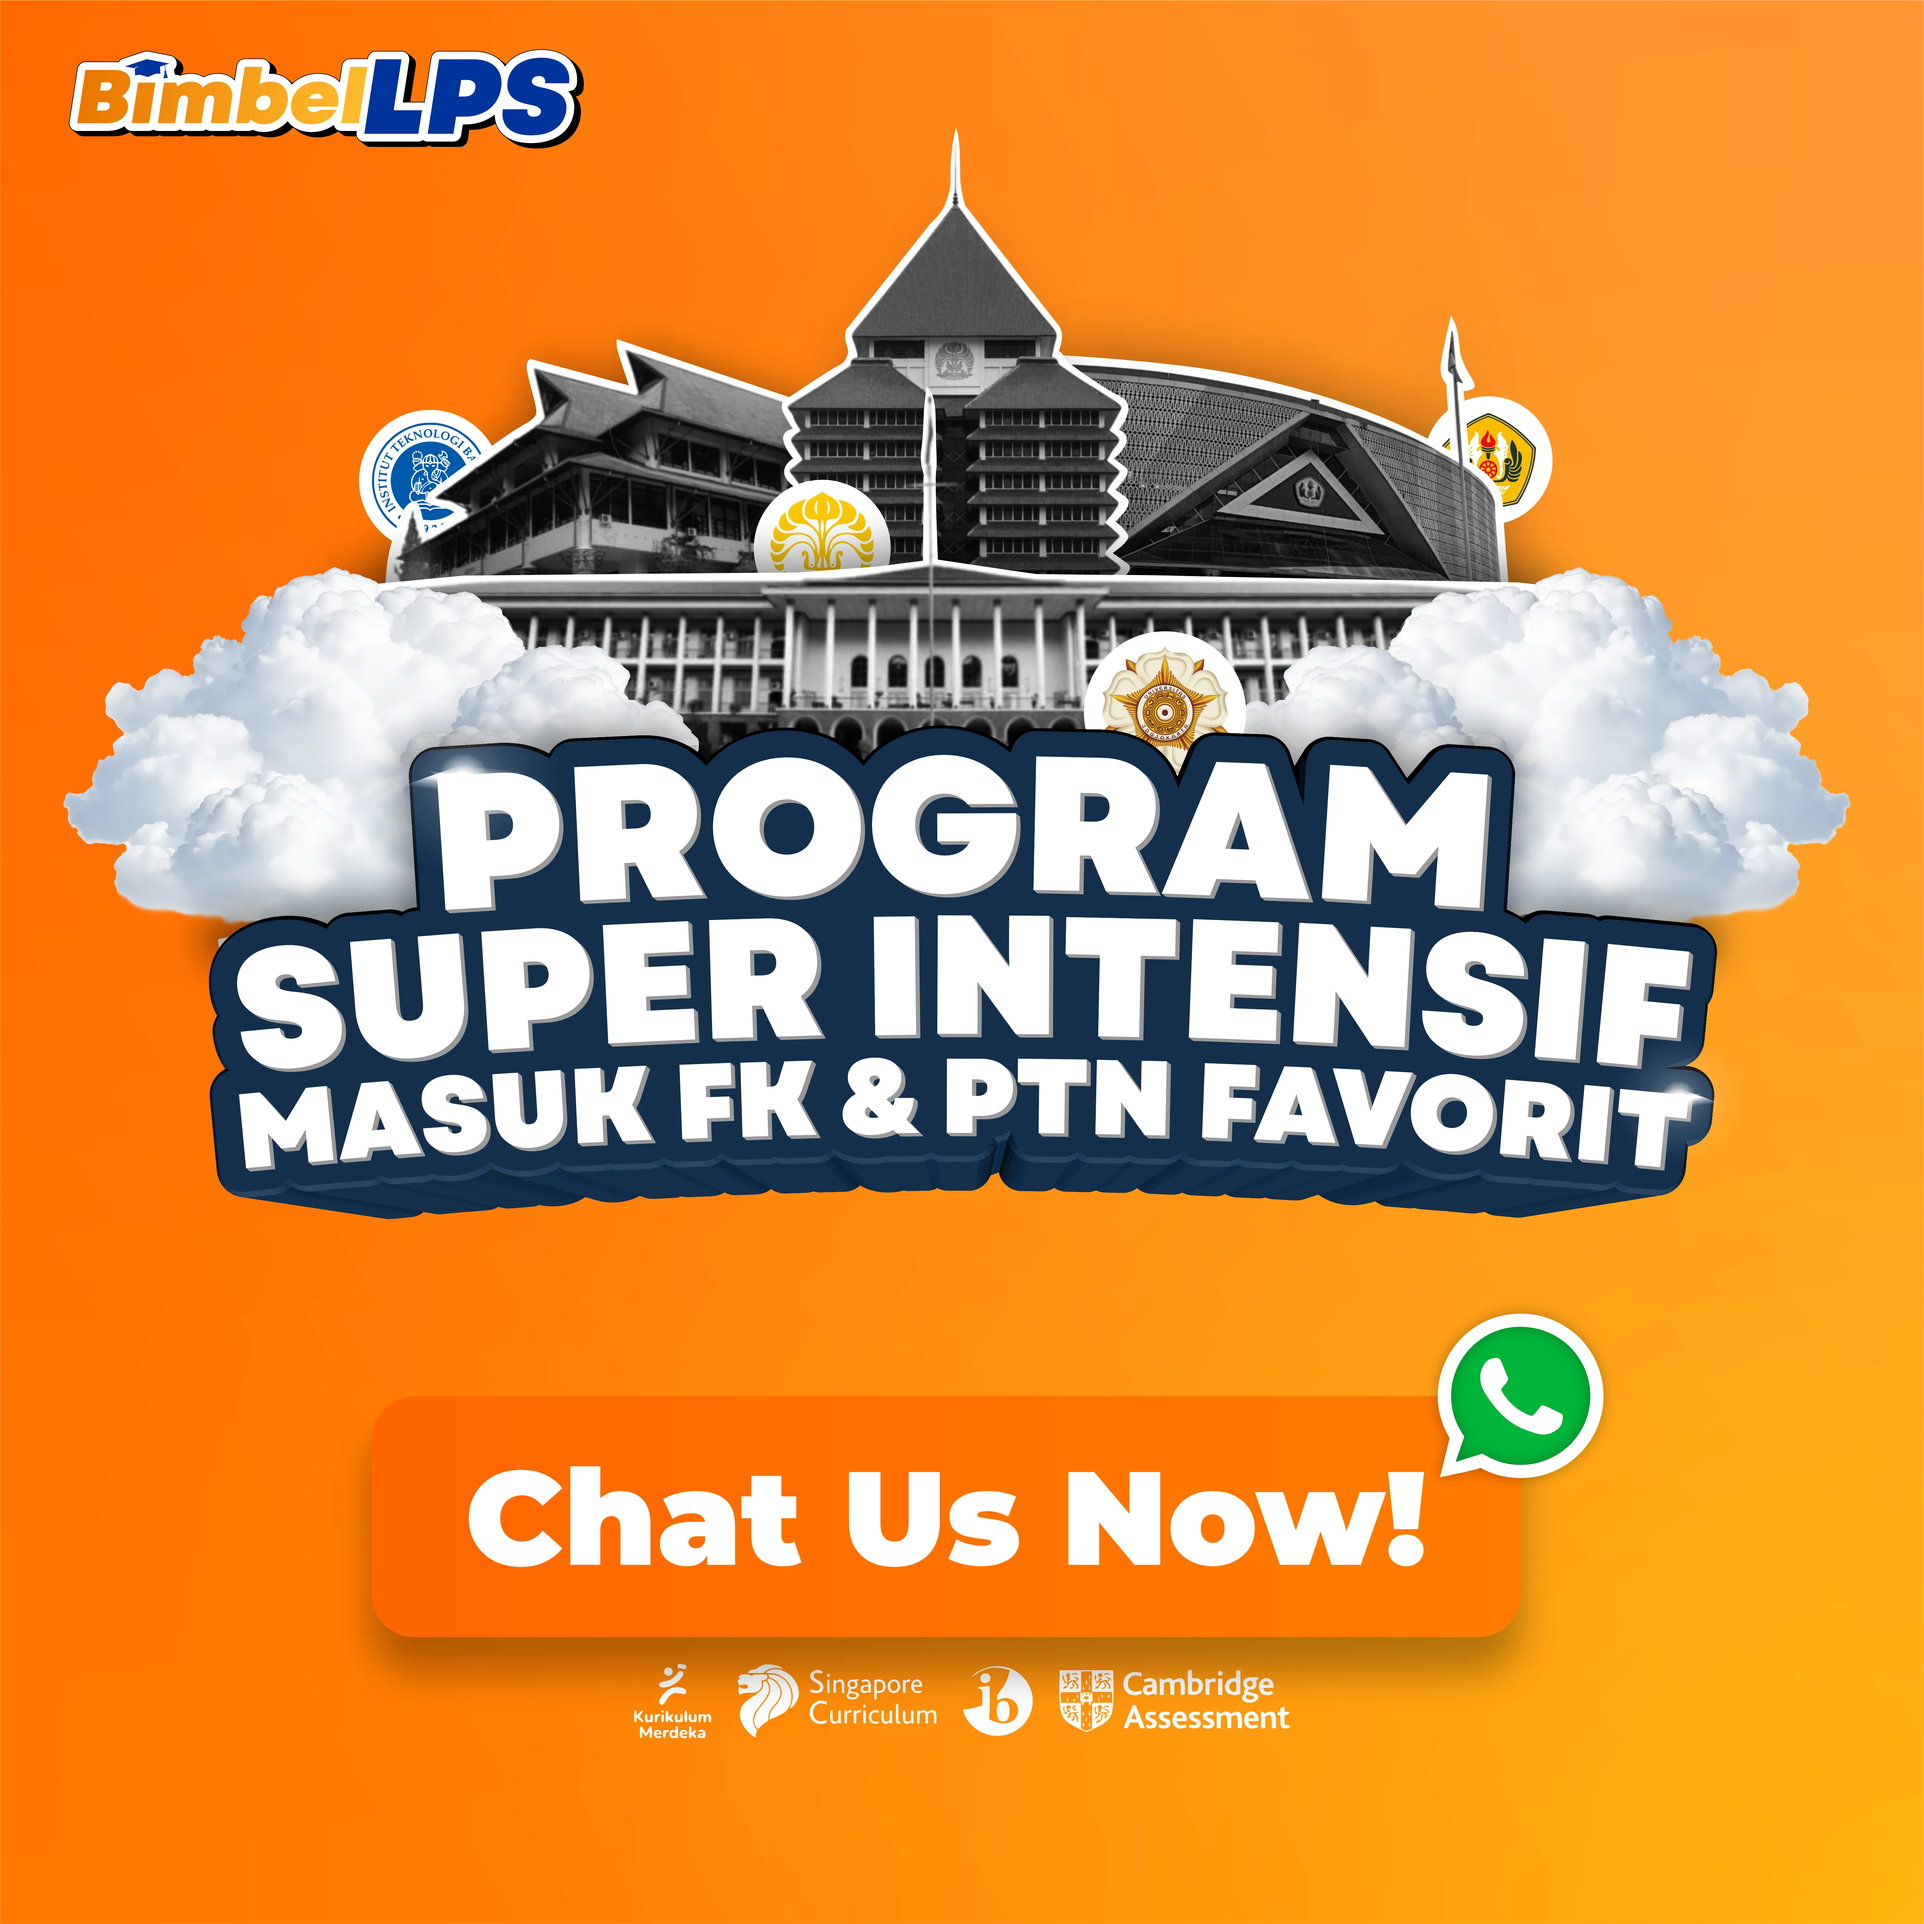
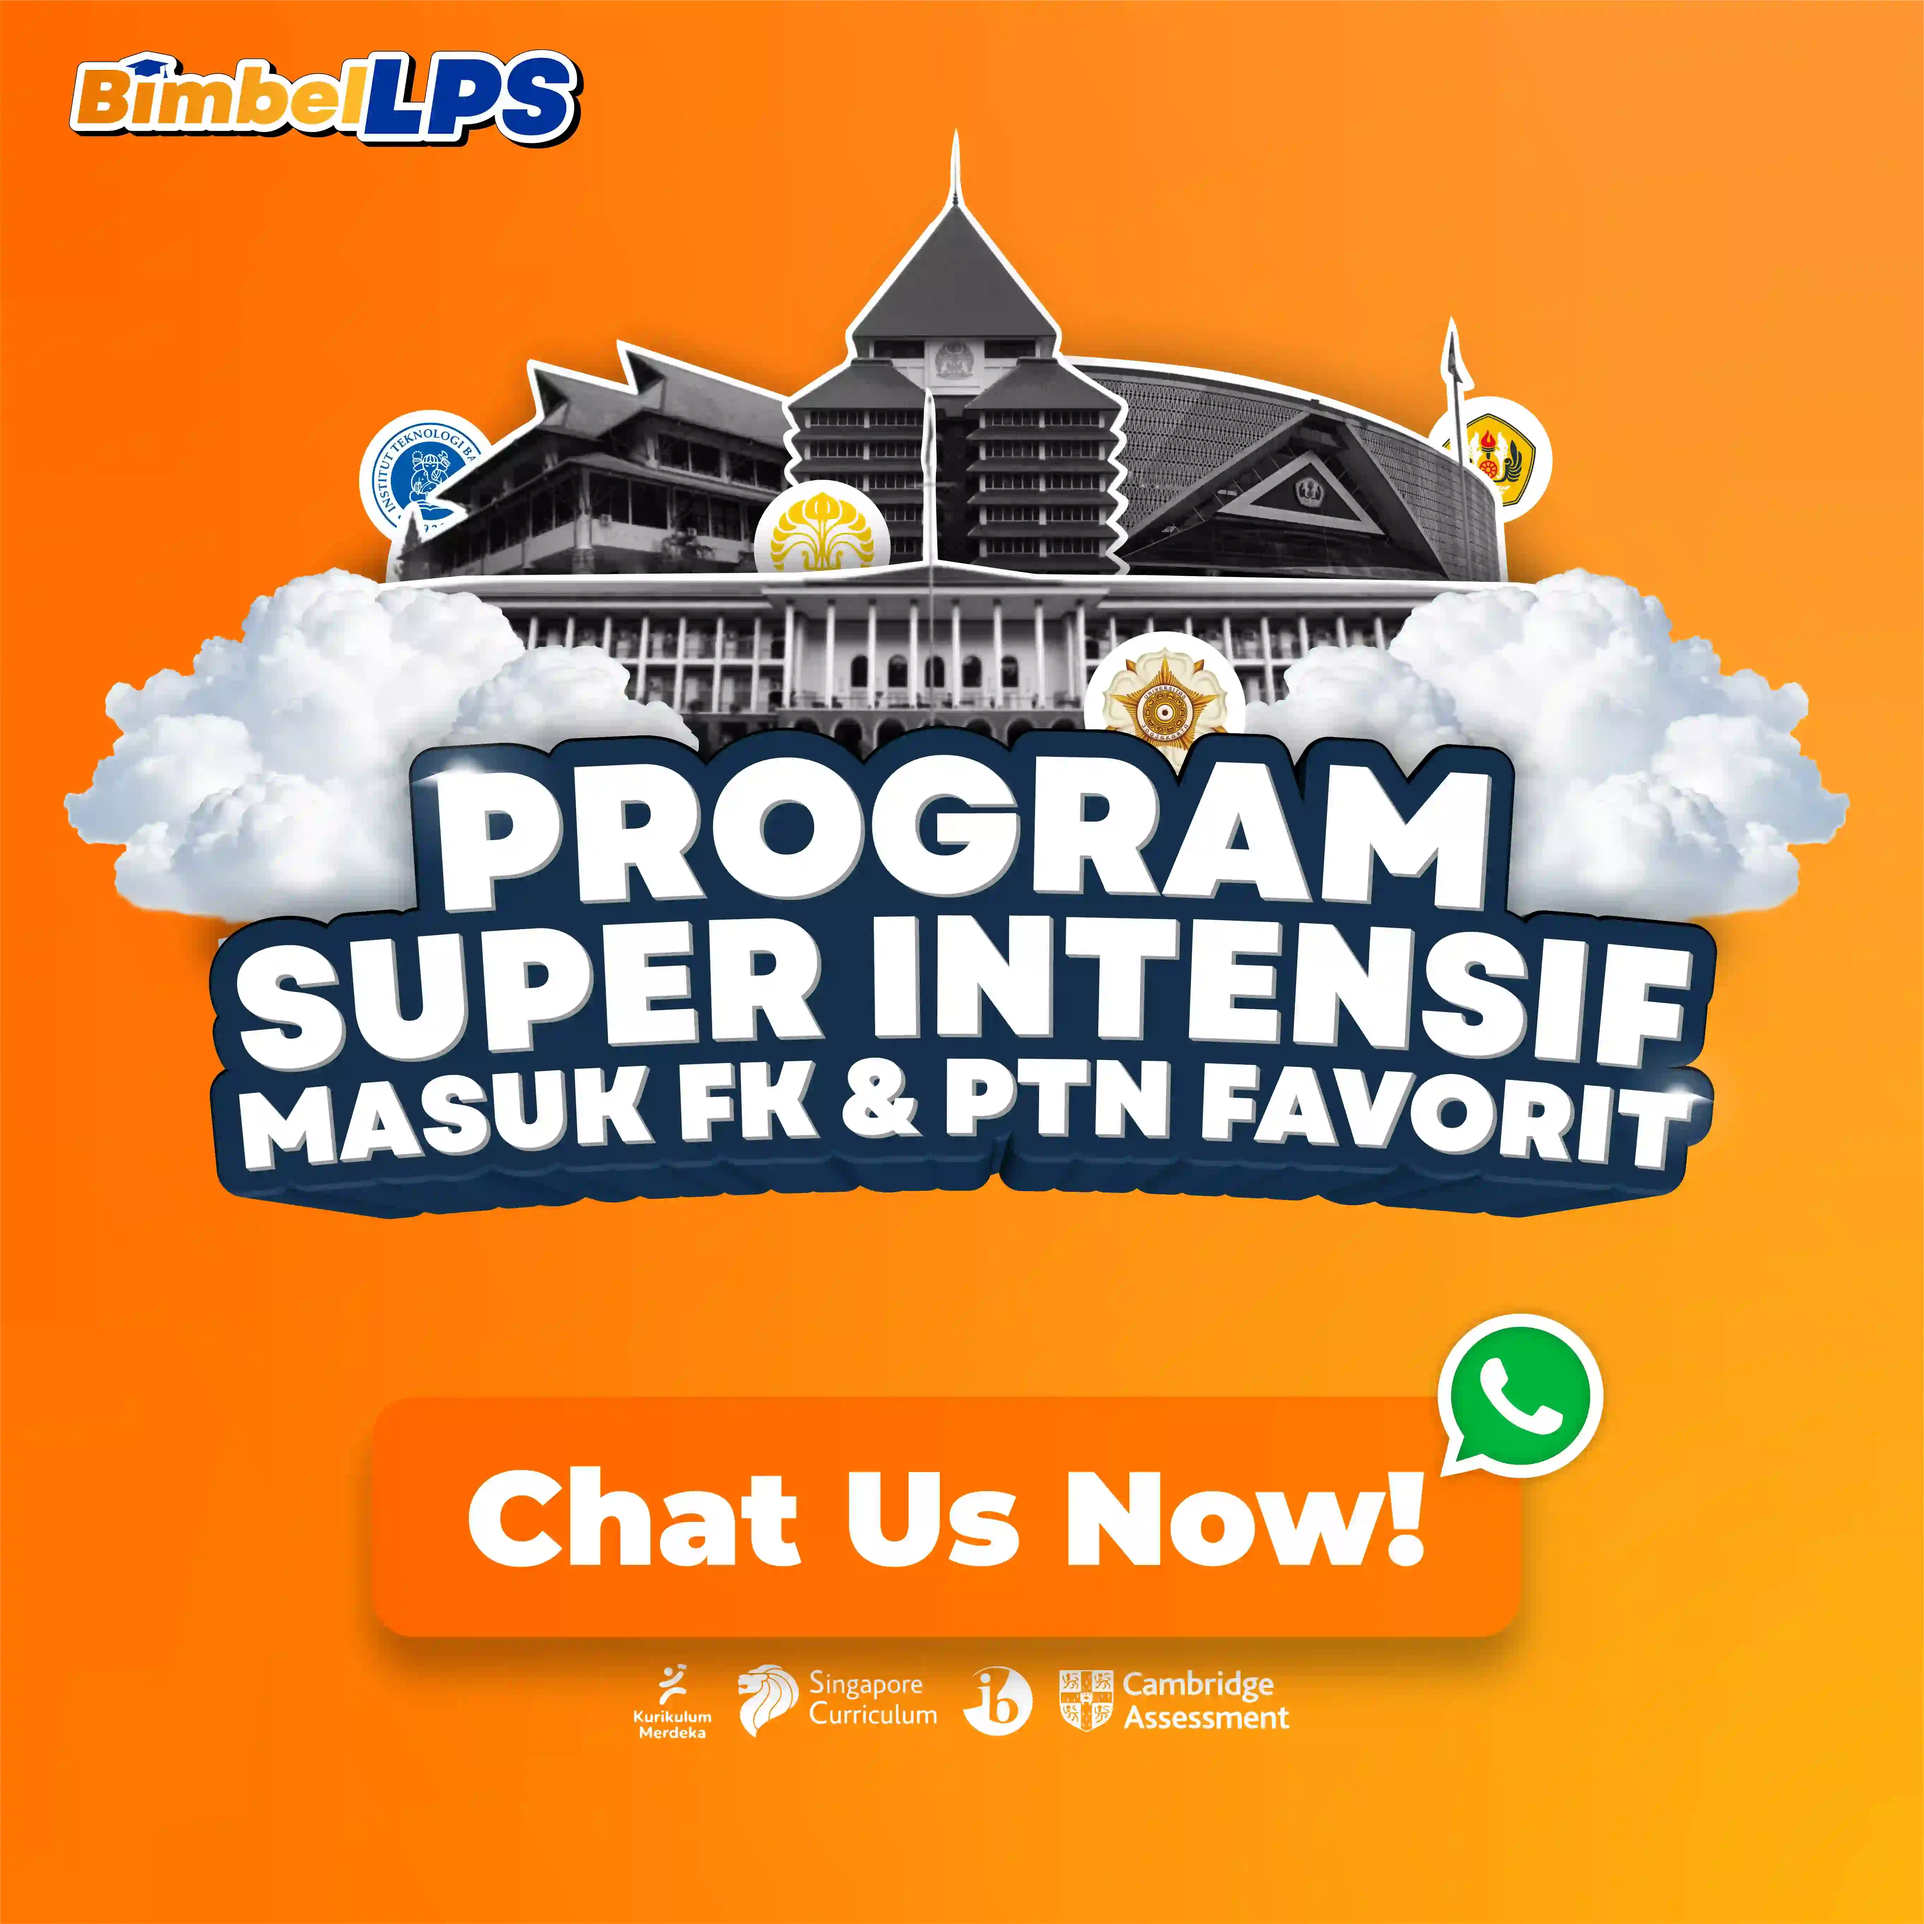
feat: update contact cs tidak mengambil data dari api

diff --git a/src/hooks/useCSData.js b/src/hooks/useCSData.js
@@ -1,45 +1,6 @@
 // src/hooks/useCSData.js
 
-import { useEffect, useState } from "react";
-import { baseUrl } from "../utils/config";
-
-export const useCSData = () => {
-  const [csData, setCSData] = useState([]);
-  const [loading, setLoading] = useState(true);
-  const [error, setError] = useState(null);
-
-  useEffect(() => {
-    const fetchCSData = async () => {
-      try {
-        setLoading(true);
-        setError(null);
-        const response = await fetch(`${baseUrl}/contactCs/all`);
-
-        if (!response.ok) {
-          throw new Error(`API error: ${response.status}`);
-        }
-
-        const data = await response.json();
-
-        const activeCS = data
-          .filter((cs) => !cs.isDeleted)
-          .sort((a, b) => (a.display_order || 0) - (b.display_order || 0));
-
-        setCSData(activeCS);
-      } catch (err) {
-        console.error("Failed to fetch CS data:", err);
-        setError(err.message);
-        setCSData(FALLBACK_CS_DATA);
-      } finally {
-        setLoading(false);
-      }
-    };
-
-    fetchCSData();
-  }, []);
-
-  return { csData, loading, error };
-};
+import { useState } from "react";
 
 export const FALLBACK_CS_DATA = [
   {
@@ -73,5 +34,15 @@ export const FALLBACK_CS_DATA = [
     isDeleted: false,
   },
 ];
+
+export const useCSData = () => {
+  const [csData] = useState(() => {
+    return FALLBACK_CS_DATA.filter((cs) => !cs.isDeleted).sort(
+      (a, b) => (a.display_order || 0) - (b.display_order || 0),
+    );
+  });
+
+  return { csData, loading: false, error: null };
+};
 
 export default useCSData;

diff --git a/src/components/Navbar/Nav/Nav.css b/src/components/Navbar/Nav/Nav.css
@@ -126,8 +126,8 @@
 }
 
 .logo-nav {
-  height: 4vh;
-  width: 6vw;
+  height: 58px;
+  width: auto;
   padding-bottom: 8px;
   padding-top: 8px;
   will-change: filter;
@@ -146,8 +146,8 @@
     padding-right: 4%;
   }
   .logo-nav {
-    height: 4vh;
-    width: 6vw;
+    height: 58px;
+    width: auto;
     padding-top: 6px;
     will-change: filter;
     transition: filter 300ms;
@@ -156,8 +156,8 @@
 
 @media (max-width: 768px) {
   .logo-nav {
-    height: 4vh;
-    width: 6vw;
+    height: 48px;
+    width: auto;
     padding-top: 6px;
     will-change: filter;
     transition: filter 300ms;
@@ -165,8 +165,8 @@
 }
 @media (max-width: 480px) {
   .logo-nav {
-    height: 4vh;
-    width: 6vw;
+    height: 4cqb;
+    width: auto;
     padding-top: 6px;
     will-change: filter;
     transition: filter 300ms;

diff --git a/src/components/Navbar/Nav/Nav.jsx b/src/components/Navbar/Nav/Nav.jsx
@@ -11,13 +11,10 @@ import "./Nav.css";
 const Nav = () => {
   const [isScrolled, setIsScrolled] = useState(false);
 
-  // Fetch CS data dari API
   const { csData } = useCSData();
 
-  // Get rotating CS (random/weight-based)
   const selectedCS = useRotatingCS(csData);
 
-  // Default fallback jika tidak ada CS data
   const fallbackCS = {
     nama_cs: "Kak Fina",
     nomor_hp: "081311778441",
